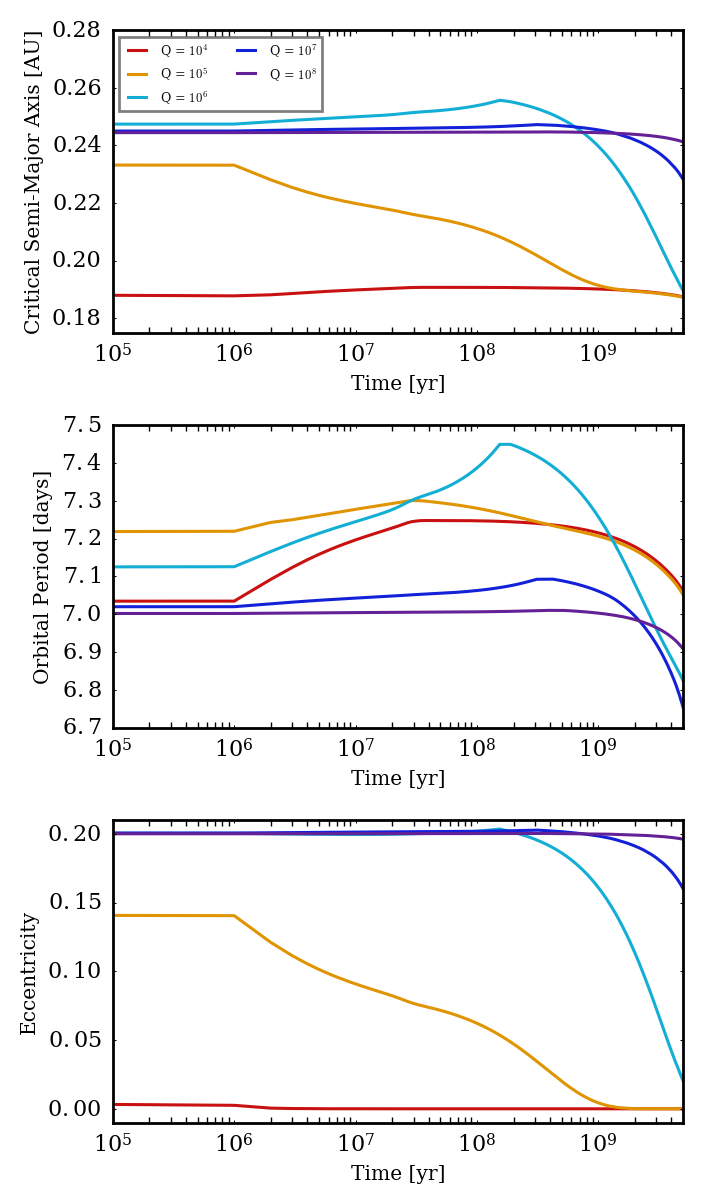
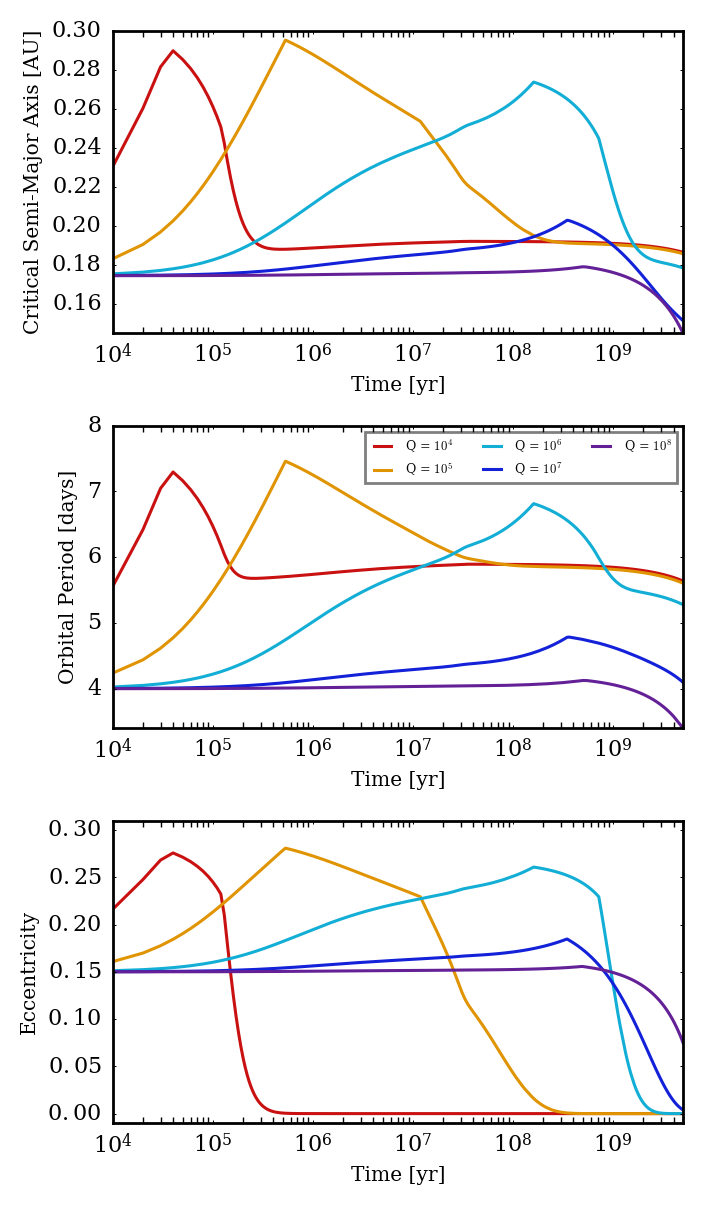
Changed fiducial values to Fleming18

diff --git a/Qfactors/makeplot.py b/Qfactors/makeplot.py
@@ -95,25 +95,25 @@ for sim in range(len(data)):
 #Fomatting a_crit
 axes[0].set_ylabel("Critical Semi-Major Axis [AU]", 
                    size = fontsize_axis)
-axes[0].set_ylim(ymin = 0.175, ymax = 0.28)
+axes[0].set_ylim(ymin = 0.145, ymax = 0.30)
 axes[0].yaxis.set_major_formatter(FormatStrFormatter('%.2f'))
-axes[0].legend(loc = "upper left", ncol = 2)
+axes[1].legend(loc = "upper right", ncol = 3)
 
 #Formatting the orbital period
 axes[1].set_ylabel("Orbital Period [days]", 
                    size = fontsize_axis)
-axes[1].set_ylim(ymin = 6.7 ,ymax = 7.5)
+axes[1].set_ylim(ymin = 3.4 ,ymax = 8.0)
 
 #formatting the binary eccentricity
 axes[2].set_ylabel("Eccentricity", 
                    size = fontsize_axis)
-axes[2].set_ylim(ymin = -0.01 ,ymax = 0.21)
+axes[2].set_ylim(ymin = -0.01 ,ymax = 0.31)
 
 #Looping some formats that will be the same on all three plots
 for n in range(nrows):
     axes[n].set_xscale("log")
     axes[n].set_xlabel("Time [yr]", size = fontsize_axis)
-    axes[n].set_xlim(1e+5, time.max())
+    axes[n].set_xlim(1e+4, time.max())
     axes[n].tick_params(axis = 'both', which = 'major', 
                         labelsize = labelsize_tick_params, 
                         width = width_tick_params, 

diff --git a/Qfactors/README.rst b/Qfactors/README.rst
@@ -4,9 +4,8 @@ Dynamic stability limits influenced by Q Factors.
 Overview
 -----
 
-We use the CPL model to simulate different initial Q factors during a potential Kepler-47 time evolution. 
-We chose the fiducial values of Kepler-47 from Graham et al. 2020 except we changed the initial binary
-eccentricity to 0.20. We show how Q factors impact the evolution of critical semi-major axis, the eccentricity, 
+We use the CPL model to simulate different initial Q factors using the fiducial values from Fleming et al. 2018. 
+We show how Q factors impact the evolution of critical semi-major axis, the eccentricity, 
 and the orbital period. 
 
 
@@ -14,7 +13,7 @@ and the orbital period.
 **Date**              10/07/20
 **Author**            David Graham
 **Modules**           binary eqtide stellar
-**Approx. runtime**   15 minutes total
+**Approx. runtime**   45 minutes total
 ===================   ============
  
 Running the script.
@@ -24,12 +23,12 @@ To create the data (make sure you have at least the python3 version), you must f
 
 .. code-block:: bash
 
-    python K47_tidalQs.py
+    python tidalQs.py
 
-If you would like to have audio played on the K47_tidalQs.py script, move any of the desired .wav files from 
+If you would like to have audio played on the tidalQs.py script, move any of the desired .wav files from 
 the audio/DesiredLanguage to the Qfactors directory. In order for the audio to play, you must move the .wav files 
 before playing the script. You are also free to create your own .wav files and input them into the Qfactors 
-directory we well. You may also stop and play the K47_tidalQs.py script at any time and continue to run the script 
+directory we well. You may also stop and play the tidalQs.py script at any time and continue to run the script 
 again from the most recently incomplete simulation.
 
 When you have at least a few data points or when the previous script is finished, you may run in another terminal:  
@@ -45,6 +44,5 @@ Expected image
 .. |acrit| replace:: a\ :sub:`crit`\
 
 .. figure:: Qfactor_CPL.png?raw=True 
-The dynamic evolution of Kepler-47 binaries influenced by different initial Q factors using the CPL model. Redder curves represent low initial Q values while bluer curves represent higher Q values. We used the CPL model along with dynamic 
-radius of gyration. Top: The binaries' dynamic stability limit time evolutions, |acrit|. Middle: The orbital period of Kepler-47B. Bottom: The eccentricity of Kepler-47B.  
+The dynamic evolution of the Fleming18 fiducial binaries influenced by different initial Q factors using the CPL model. Redder curves represent low initial Q values while bluer curves represent higher Q values. We used the CPL model along with dynamic a radius of gyration. Top: The binaries' dynamic stability limit time evolutions, |acrit|. Middle: The orbital period of the secondary star. Bottom: The eccentricity of the secondary star.  
 
